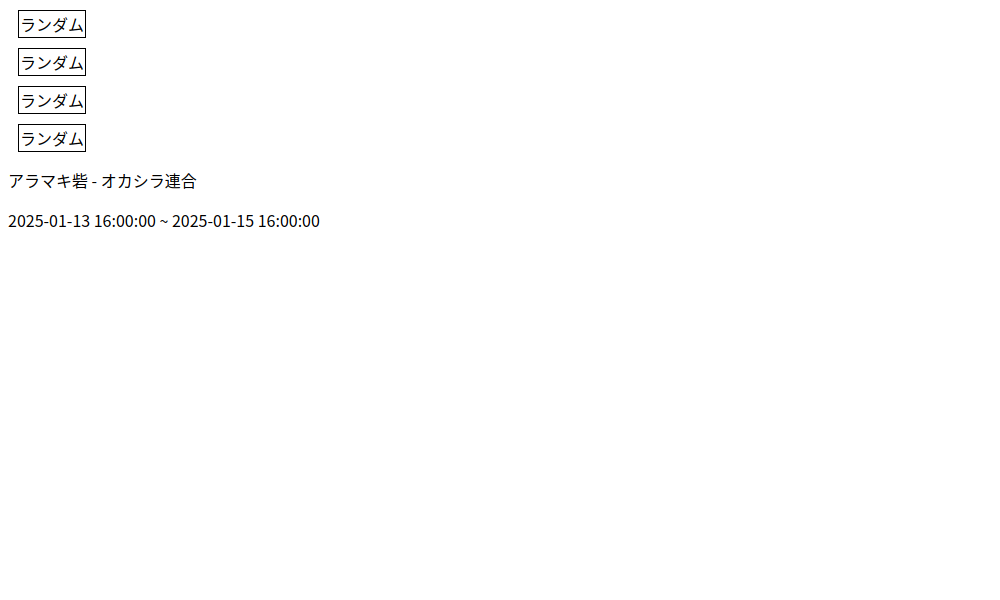
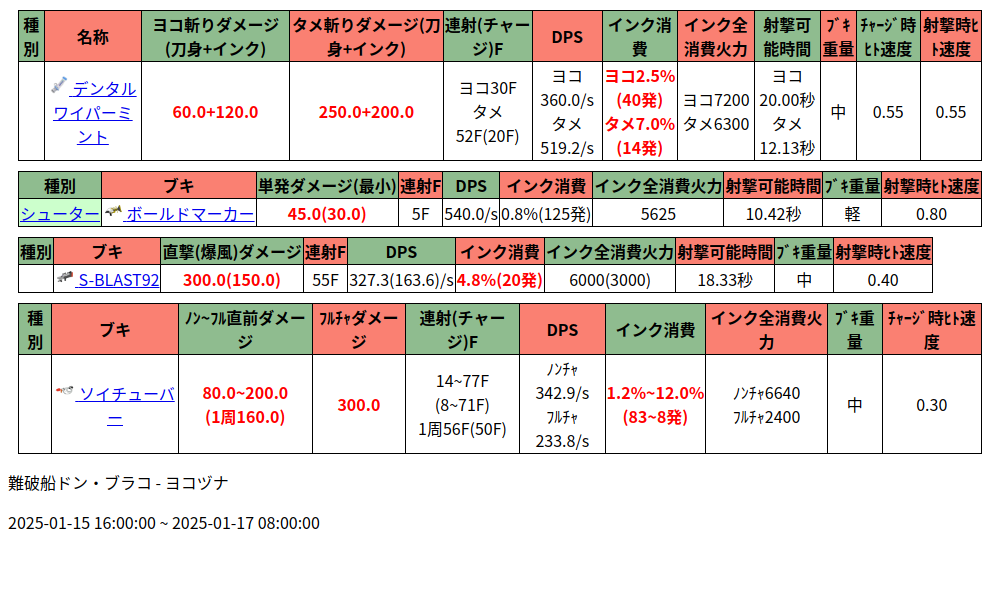
Automated changes by GitHub Actions

diff --git a/salmonRun.html b/salmonRun.html
@@ -1,1 +1,1 @@
-<head><meta charset="UTF-8"><style>table{border-collapse: collapse;border: 1px solid black;margin:10px;}td, th {border: 1px solid black;}</style></head><table><td>ランダム</td></table><table><td>ランダム</td></table><table><td>ランダム</td></table><table><td>ランダム</td></table><p>アラマキ砦 - オカシラ連合</p><p>2025-01-13 16:00:00 ~ 2025-01-15 16:00:00</p>
+<head><meta charset="UTF-8"><style>table{border-collapse: collapse;border: 1px solid black;margin:10px;}td, th {border: 1px solid black;}</style></head><table><thead> <tr>  <td style="background-color:DarkSeaGreen; text-align:center;">   <strong>    種別   </strong>  </td>  <td style="background-color:Salmon; text-align:center;">   <strong>    名称   </strong>  </td>  <td style="background-color:DarkSeaGreen; text-align:center;">   <strong>    ヨコ斬りダメージ(刀身+インク)   </strong>  </td>  <td style="background-color:Salmon; text-align:center;">   <strong>    タメ斬りダメージ(刀身+インク)   </strong>  </td>  <td style="background-color:DarkSeaGreen; text-align:center;">   <strong>    連射(チャージ)F   </strong>  </td>  <td style="background-color:Salmon; text-align:center;">   <strong>    DPS   </strong>  </td>  <td style="background-color:DarkSeaGreen; text-align:center;">   <strong>    インク消費   </strong>  </td>  <td style="background-color:Salmon; text-align:center;">   <strong>    インク全消費火力   </strong>  </td>  <td style="background-color:DarkSeaGreen; text-align:center;">   <strong>    射撃可能時間   </strong>  </td>  <td style="background-color:Salmon; text-align:center;">   <strong>    ﾌﾞｷ重量   </strong>  </td>  <td style="background-color:DarkSeaGreen; text-align:center;">   <strong>    ﾁｬｰｼﾞ時ﾋﾄ速度   </strong>  </td>  <td style="background-color:Salmon; text-align:center;">   <strong>    射撃時ﾋﾄ速度   </strong>  </td> </tr></thead><tr><td></td> <td style="text-align:center;">  <a data-lightbox="imageset" href="https://cdn.wikiwiki.jp/to/w/splatoon3mix/icon/::attach/%E3%83%87%E3%83%B3%E3%82%BF%E3%83%AB%E3%83%AF%E3%82%A4%E3%83%91%E3%83%BC%E3%83%9F%E3%83%B3%E3%83%88.png?rev=736086270d4b8468d43786bb5e35c5ba&amp;t=20240603134347" title="デンタルワイパーミント">   <img alt="デンタルワイパーミント" height="20" loading="lazy" src="https://cdn.wikiwiki.jp/to/w/splatoon3mix/icon/::ref/%E3%83%87%E3%83%B3%E3%82%BF%E3%83%AB%E3%83%AF%E3%82%A4%E3%83%91%E3%83%BC%E3%83%9F%E3%83%B3%E3%83%88.png.webp?rev=736086270d4b8468d43786bb5e35c5ba&amp;t=20240603134347" title="デンタルワイパーミント" width="20"/>  </a>  <a class="rel-wiki-page" href="/splatoon3mix/%E3%83%96%E3%82%AD/%E3%83%87%E3%83%B3%E3%82%BF%E3%83%AB%E3%83%AF%E3%82%A4%E3%83%91%E3%83%BC%E3%83%9F%E3%83%B3%E3%83%88" title="ブキ/デンタルワイパーミント">   デンタルワイパーミント  </a> </td> <td style="text-align:center;">  <span class="wikicolor" style="color:Red">   <strong>    60.0+120.0   </strong>  </span> </td> <td style="text-align:center;">  <span class="wikicolor" style="color:Red">   <strong>    250.0+200.0   </strong>  </span> </td> <td style="text-align:center;">  ヨコ30F  <br class="spacer"/>  タメ52F(20F) </td> <td style="text-align:center;">  ヨコ360.0/s  <br class="spacer"/>  タメ519.2/s </td> <td style="text-align:center;">  <span class="wikicolor" style="color:Red">   <strong>    ヨコ2.5%(40発)    <br class="spacer"/>    タメ7.0%(14発)   </strong>  </span> </td> <td style="text-align:center;">  ヨコ7200  <br class="spacer"/>  タメ6300 </td> <td style="text-align:center;">  ヨコ20.00秒  <br class="spacer"/>  タメ12.13秒 </td> <td style="text-align:center;">  中 </td> <td style="text-align:center;">  0.55 </td> <td style="text-align:center;">  0.55 </td></tr></table><table><thead> <tr>  <td style="background-color:DarkSeaGreen; text-align:center;">   <strong>    種別   </strong>  </td>  <td style="background-color:Salmon; text-align:center;">   <strong>    ブキ   </strong>  </td>  <td style="background-color:DarkSeaGreen; text-align:center;">   <strong>    単発ダメージ(最小)   </strong>  </td>  <td style="background-color:Salmon; text-align:center;">   <strong>    連射F   </strong>  </td>  <td style="background-color:DarkSeaGreen; text-align:center;">   <strong>    DPS   </strong>  </td>  <td style="background-color:Salmon; text-align:center;">   <strong>    インク消費   </strong>  </td>  <td style="background-color:DarkSeaGreen; text-align:center;">   <strong>    インク全消費火力   </strong>  </td>  <td style="background-color:Salmon; text-align:center;">   <strong>    射撃可能時間   </strong>  </td>  <td style="background-color:DarkSeaGreen; text-align:center;">   <strong>    ﾌﾞｷ重量   </strong>  </td>  <td style="background-color:Salmon; text-align:center;">   <strong>    射撃時ﾋﾄ速度   </strong>  </td> </tr></thead><tr> <td rowspan="14" style="background-color:#ccffcc; text-align:center;">  <a class="rel-wiki-page" href="/splatoon3mix/%E3%83%96%E3%82%AD/%E3%82%B7%E3%83%A5%E3%83%BC%E3%82%BF%E3%83%BC%E5%B1%9E" title="ブキ/シューター属">   シューター  </a> </td> <td style="text-align:center;">  <a data-lightbox="imageset" href="https://cdn.wikiwiki.jp/to/w/splatoon3mix/icon/::attach/%E3%83%9C%E3%83%BC%E3%83%AB%E3%83%89%E3%83%9E%E3%83%BC%E3%82%AB%E3%83%BC.png?rev=6e3c4434ece589bd5cb6e7cad05cc8d5&amp;t=20230627135358" title="ボールドマーカー">   <img alt="ボールドマーカー" height="20" loading="lazy" src="https://cdn.wikiwiki.jp/to/w/splatoon3mix/icon/::ref/%E3%83%9C%E3%83%BC%E3%83%AB%E3%83%89%E3%83%9E%E3%83%BC%E3%82%AB%E3%83%BC.png?rev=6e3c4434ece589bd5cb6e7cad05cc8d5&amp;t=20230627135358" title="ボールドマーカー" width="20"/>  </a>  <a class="rel-wiki-page" href="/splatoon3mix/%E3%83%96%E3%82%AD/%E3%83%9C%E3%83%BC%E3%83%AB%E3%83%89%E3%83%9E%E3%83%BC%E3%82%AB%E3%83%BC" title="ブキ/ボールドマーカー">   ボールドマーカー  </a> </td> <td style="text-align:center;">  <span class="wikicolor" style="color:Red">   <strong>    45.0(30.0)   </strong>  </span> </td> <td style="text-align:center;">  5F </td> <td style="text-align:center;">  540.0/s </td> <td style="text-align:center;">  0.8%(125発) </td> <td style="text-align:center;">  5625 </td> <td style="text-align:center;">  10.42秒 </td> <td style="text-align:center;">  軽 </td> <td style="text-align:center;">  0.80 </td></tr></table><table><thead> <tr>  <td style="background-color:DarkSeaGreen; text-align:center;">   <strong>    種別   </strong>  </td>  <td style="background-color:Salmon; text-align:center;">   <strong>    ブキ   </strong>  </td>  <td style="background-color:DarkSeaGreen; text-align:center;">   <strong>    直撃(爆風)ダメージ   </strong>  </td>  <td style="background-color:Salmon; text-align:center;">   <strong>    連射F   </strong>  </td>  <td style="background-color:DarkSeaGreen; text-align:center;">   <strong>    DPS   </strong>  </td>  <td style="background-color:Salmon; text-align:center;">   <strong>    インク消費   </strong>  </td>  <td style="background-color:DarkSeaGreen; text-align:center;">   <strong>    インク全消費火力   </strong>  </td>  <td style="background-color:Salmon; text-align:center;">   <strong>    射撃可能時間   </strong>  </td>  <td style="background-color:DarkSeaGreen; text-align:center;">   <strong>    ﾌﾞｷ重量   </strong>  </td>  <td style="background-color:Salmon; text-align:center;">   <strong>    射撃時ﾋﾄ速度   </strong>  </td> </tr></thead><tr><td></td> <td style="text-align:center;">  <a data-lightbox="imageset" href="https://cdn.wikiwiki.jp/to/w/splatoon3mix/icon/::attach/S-BLAST92.png?rev=98a3cd103faa65c7307b0d11d5ed9584&amp;t=20230602152512" title="S-BLAST92">   <img alt="S-BLAST92" height="20" loading="lazy" src="https://cdn.wikiwiki.jp/to/w/splatoon3mix/icon/::ref/S-BLAST92.png?rev=98a3cd103faa65c7307b0d11d5ed9584&amp;t=20230602152512" title="S-BLAST92" width="20"/>  </a>  <a class="rel-wiki-page" href="/splatoon3mix/%E3%83%96%E3%82%AD/S-BLAST92" title="ブキ/S-BLAST92">   S-BLAST92  </a> </td> <td style="text-align:center;">  <span class="wikicolor" style="color:Red">   <strong>    300.0(150.0)   </strong>  </span> </td> <td style="text-align:center;">  55F </td> <td style="text-align:center;">  327.3(163.6)/s </td> <td style="text-align:center;">  <span class="wikicolor" style="color:Red">   <strong>    4.8%(20発)   </strong>  </span> </td> <td style="text-align:center;">  6000(3000) </td> <td style="text-align:center;">  18.33秒 </td> <td style="text-align:center;">  中 </td> <td style="text-align:center;">  0.40 </td></tr></table><table><thead> <tr>  <td style="background-color:DarkSeaGreen; text-align:center;">   <strong>    種別   </strong>  </td>  <td style="background-color:Salmon; text-align:center;">   <strong>    ブキ   </strong>  </td>  <td style="background-color:DarkSeaGreen; text-align:center;">   <strong>    ﾉﾝ~ﾌﾙ直前ダメージ   </strong>  </td>  <td style="background-color:Salmon; text-align:center;">   <strong>    ﾌﾙﾁｬダメージ   </strong>  </td>  <td style="background-color:DarkSeaGreen; text-align:center;">   <strong>    連射(チャージ)F   </strong>  </td>  <td style="background-color:Salmon; text-align:center;">   <strong>    DPS   </strong>  </td>  <td style="background-color:DarkSeaGreen; text-align:center;">   <strong>    インク消費   </strong>  </td>  <td style="background-color:Salmon; text-align:center;">   <strong>    インク全消費火力   </strong>  </td>  <td style="background-color:DarkSeaGreen; text-align:center;">   <strong>    ﾌﾞｷ重量   </strong>  </td>  <td style="background-color:Salmon; text-align:center;">   <strong>    ﾁｬｰｼﾞ時ﾋﾄ速度   </strong>  </td> </tr></thead><tr><td></td> <td style="text-align:center;">  <a data-lightbox="imageset" href="https://cdn.wikiwiki.jp/to/w/splatoon3mix/icon/::attach/%E3%82%BD%E3%82%A4%E3%83%81%E3%83%A5%E3%83%BC%E3%83%90%E3%83%BC.png?rev=d3cc8b41a12db0aad13ccceef78290c1&amp;t=20220905220218" title="ソイチューバー">   <img alt="ソイチューバー" height="20" loading="lazy" src="https://cdn.wikiwiki.jp/to/w/splatoon3mix/icon/::ref/%E3%82%BD%E3%82%A4%E3%83%81%E3%83%A5%E3%83%BC%E3%83%90%E3%83%BC.png?rev=d3cc8b41a12db0aad13ccceef78290c1&amp;t=20220905220218" title="ソイチューバー" width="20"/>  </a>  <a class="rel-wiki-page" href="/splatoon3mix/%E3%83%96%E3%82%AD/%E3%82%BD%E3%82%A4%E3%83%81%E3%83%A5%E3%83%BC%E3%83%90%E3%83%BC" title="ブキ/ソイチューバー">   ソイチューバー  </a> </td> <td style="text-align:center;">  <span class="wikicolor" style="color:Red">   <strong>    80.0~200.0    <br class="spacer"/>    (1周160.0)   </strong>  </span> </td> <td style="text-align:center;">  <span class="wikicolor" style="color:Red">   <strong>    300.0   </strong>  </span> </td> <td style="text-align:center;">  14~77F  <br class="spacer"/>  (8~71F)  <br class="spacer"/>  1周56F(50F) </td> <td style="text-align:center;">  ﾉﾝﾁｬ342.9/s  <br class="spacer"/>  ﾌﾙﾁｬ233.8/s </td> <td style="text-align:center;">  <span class="wikicolor" style="color:Red">   <strong>    1.2%~12.0%    <br class="spacer"/>    (83~8発)   </strong>  </span> </td> <td style="text-align:center;">  ﾉﾝﾁｬ6640  <br class="spacer"/>  ﾌﾙﾁｬ2400 </td> <td style="text-align:center;">  中 </td> <td style="text-align:center;">  0.30 </td></tr></table><p>難破船ドン・ブラコ - ヨコヅナ</p><p>2025-01-15 16:00:00 ~ 2025-01-17 08:00:00</p>
